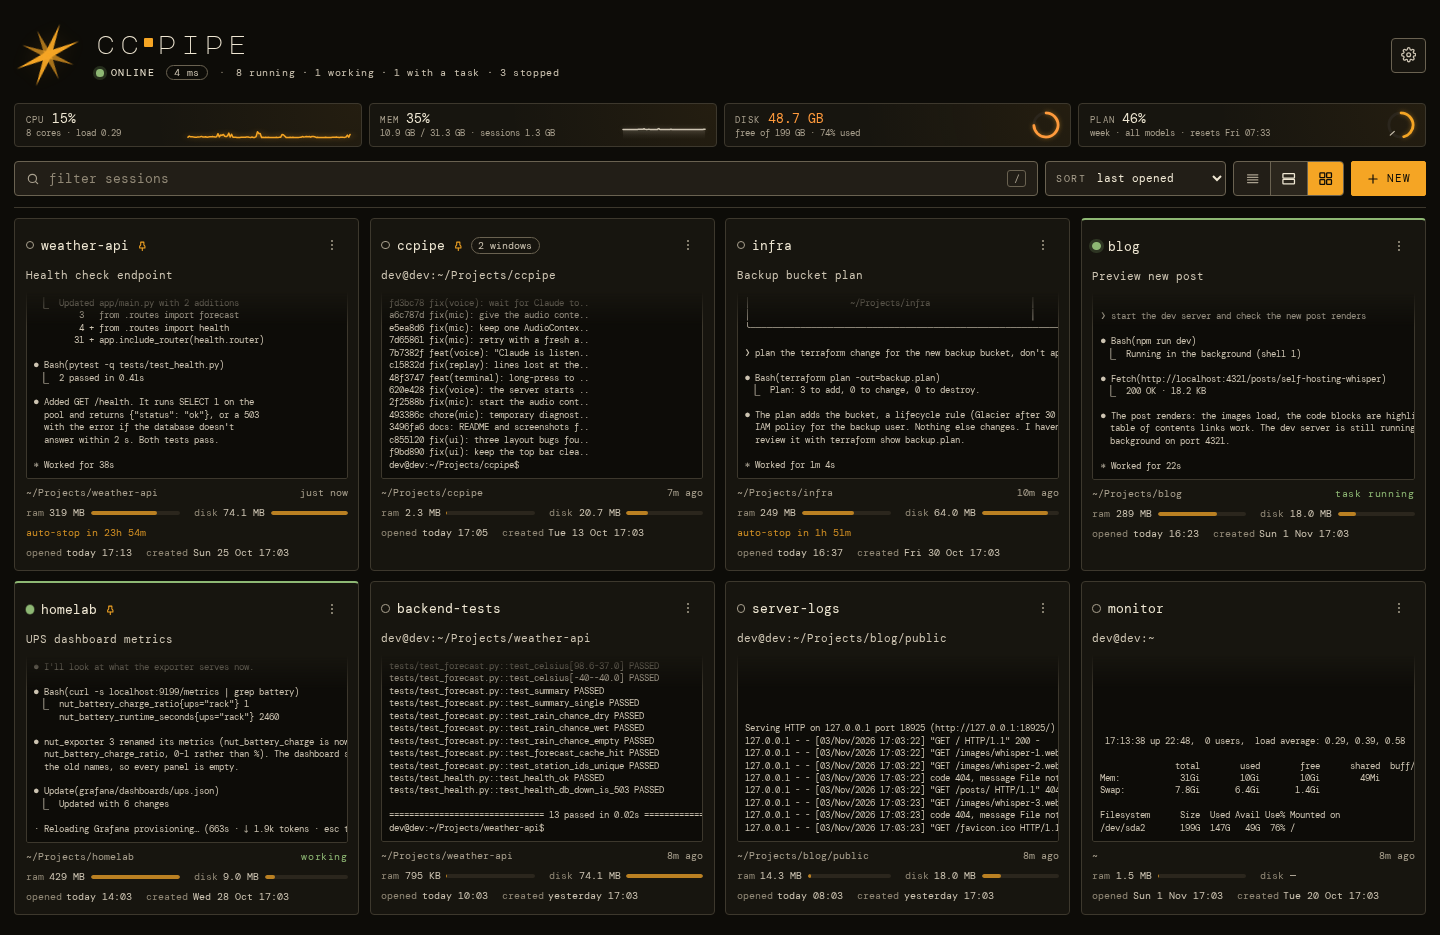
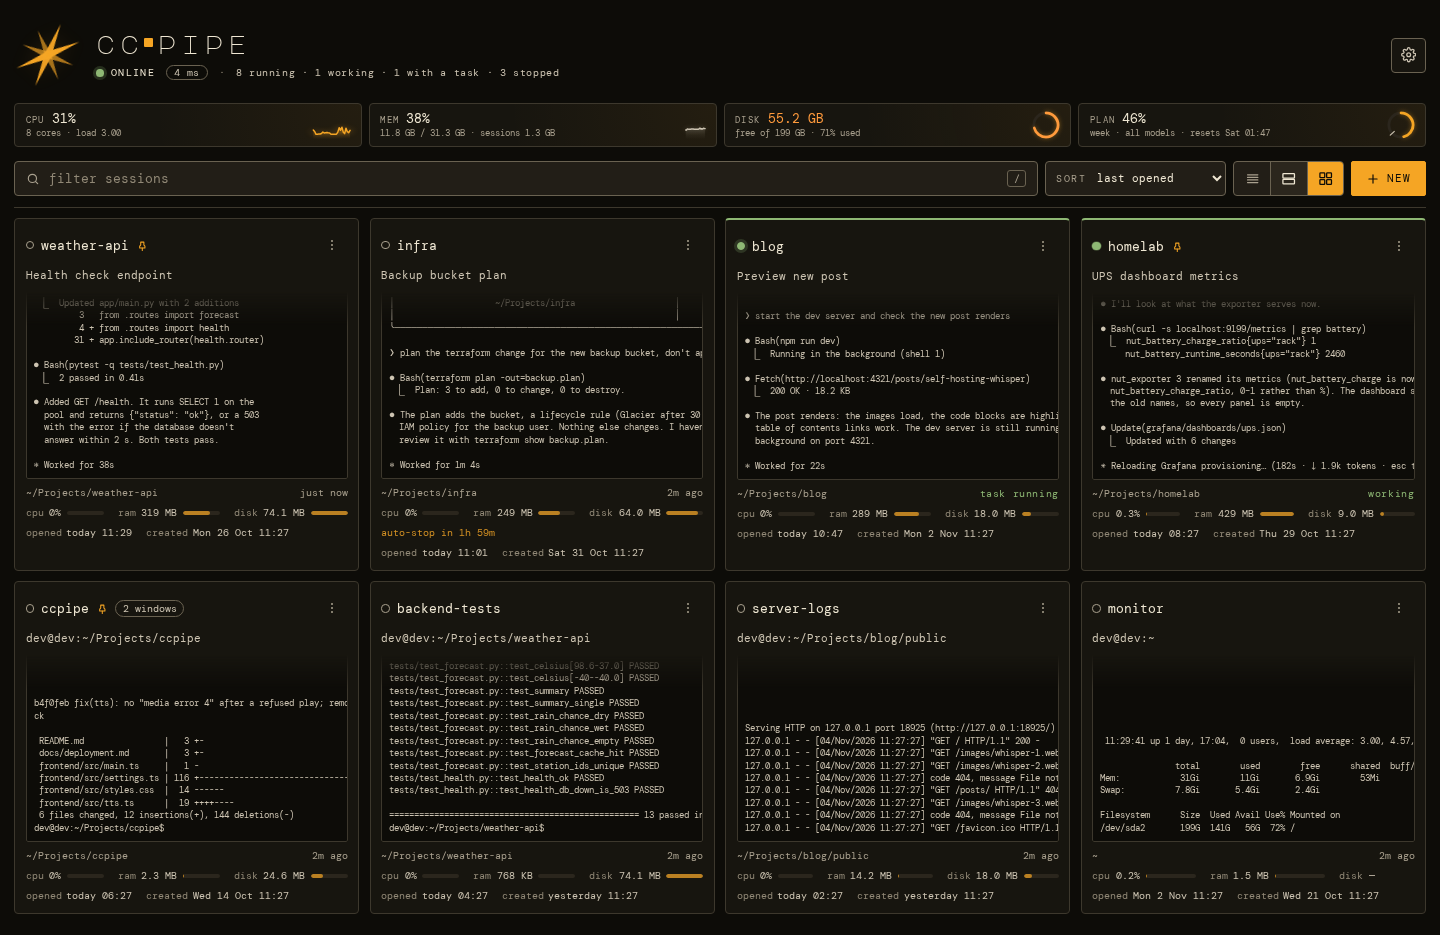
feat(sessions): per-session CPU on the landing page, read like top
Each session row and card now shows its CPU beside ram and disk, with a
cpu sort and a cpu column in the detailed table. It reads like top: 100%
is one core busy (was a share of the whole machine, in the session
pop-up only). The bar's full width is one core, or the busiest session
shown when that's more.

The figure now also counts children that have already exited
(cutime/cstime): a test loop busy ~30% of the time read 0.1%, because
each short run started and ended between two 15 s samples. Auto-stop's
idle check is unchanged (a running child already counts as busy there).

Phone layouts: three figures fit a 360 px phone; the bars shrink first.
README and configuration docs updated; session list screenshots retaken.

diff --git a/frontend/src/session-picker.ts b/frontend/src/session-picker.ts
@@ -47,7 +47,8 @@ type SessionInfo = {
   /** The active pane's directory and title. */
   cwd?: string | null;
   title?: string | null;
-  /** CPU (% of the machine), memory and project disk use (bytes). */
+  /** CPU (% of one core, like top: 200 = two cores busy), memory and
+   * project disk use (bytes). */
   cpu?: number | null;
   mem?: number | null;
   disk?: number | null;
@@ -81,7 +82,7 @@ type ClaudeSession = {
 };
 
 type View = "compact" | "detailed" | "grid";
-type Sort = "activity" | "opened" | "created" | "name" | "memory" | "disk";
+type Sort = "activity" | "opened" | "created" | "name" | "cpu" | "memory" | "disk";
 type State = "working" | "task" | "open" | "idle" | "stopped";
 
 const VIEWS: ReadonlyArray<{ id: View; label: string; icon: string }> = [
@@ -94,6 +95,7 @@ const SORTS: ReadonlyArray<{ id: Sort; label: string }> = [
   { id: "opened", label: "last opened" },
   { id: "created", label: "newest" },
   { id: "name", label: "name" },
+  { id: "cpu", label: "cpu" },
   { id: "memory", label: "memory" },
   { id: "disk", label: "disk" },
 ];
@@ -102,6 +104,7 @@ const SORTERS: Record<Sort, (a: SessionInfo, b: SessionInfo) => number> = {
   opened: (a, b) => (b.opened ?? 0) - (a.opened ?? 0) || b.activity - a.activity,
   created: (a, b) => b.created - a.created || a.name.localeCompare(b.name),
   name: (a, b) => a.name.localeCompare(b.name, undefined, { numeric: true, sensitivity: "base" }),
+  cpu: (a, b) => (b.cpu ?? -1) - (a.cpu ?? -1) || a.name.localeCompare(b.name),
   memory: (a, b) => (b.mem ?? -1) - (a.mem ?? -1) || a.name.localeCompare(b.name),
   disk: (a, b) => (b.disk ?? -1) - (a.disk ?? -1) || a.name.localeCompare(b.name),
 };
@@ -886,12 +889,29 @@ export function renderSessionPicker(
     return el;
   };
 
+  // CPU cell, like top: 100% is one core busy. The bar's full width is one
+  // core, or the busiest shown when that's more, so 300% vs 100% still reads.
+  const cpuCell = (pct: number | null | undefined, max: number): HTMLElement => {
+    const el = h("span", "sess__use sess__use--cpu");
+    if (pct === null || pct === undefined) {
+      el.append(h("span", "sess__use-k", "cpu"), h("span", "sess__use-v", "—"));
+      return el;
+    }
+    const v = pct >= 10 ? `${Math.round(pct)}%` : pct > 0 ? `${pct.toFixed(1)}%` : "0%";
+    el.append(h("span", "sess__use-k", "cpu"), h("span", "sess__use-v", v),
+      bar((pct / Math.max(100, max)) * 100, "sv-bar--rel"));
+    el.title = `${v} CPU over the last ~15 s, like top (100% = one core busy): `
+      + "Claude, its helpers and anything they started";
+    return el;
+  };
+
   const asInfo = (st: StoppedInfo): SessionInfo => ({
     name: st.name, windows: 1, attached: false, created: st.created, sticky: st.sticky,
     activity: st.stopped, opened: st.opened, clients: 0, cwd: st.cwd, title: null,
-    disk: st.disk, mem: null,
+    disk: st.disk, mem: null, cpu: null,
   });
 
+  let maxCpu = 0;
   let maxMem = 0;
   let maxDisk = 0;
 
@@ -959,6 +979,7 @@ export function renderSessionPicker(
     if (s.cwd) cwd.title = s.cwd;
     const dates = h("div", "sess__dates");
     dates.append(dateCell("opened", s.opened || undefined), dateCell("created", s.created || undefined));
+    const cpu = cpuCell(stopped ? undefined : s.cpu, maxCpu);
     const ram = useCell("ram", stopped ? undefined : s.mem, maxMem);
     const disk = useCell("disk", s.disk, maxDisk);
 
@@ -973,7 +994,7 @@ export function renderSessionPicker(
       // Two table columns on a wide screen (display: contents); one short
       // line on a phone.
       const uses = h("div", "sess__uses");
-      uses.append(ram, disk);
+      uses.append(cpu, ram, disk);
       item.append(dot, main, cwd, activity, uses, dates, actions);
     } else {
       const head = h("div", "sess__head");
@@ -993,7 +1014,7 @@ export function renderSessionPicker(
       const foot = h("div", "sess__foot");
       foot.append(cwd, activity);
       const use = h("div", "sess__uses");
-      use.append(ram, disk);
+      use.append(cpu, ram, disk);
       item.append(head, taskEl, preview, foot, use);
       if (stopEl) item.append(stopEl);
       item.append(dates);
@@ -1036,7 +1057,7 @@ export function renderSessionPicker(
       return b;
     };
     thead.append(col("session", "name"), col("directory", null), col("activity", "activity"),
-      col("memory", "memory", "picker__th--use"), col("disk", "disk", "picker__th--use"),
+      col("cpu", "cpu", "picker__th--use"), col("memory", "memory", "picker__th--use"), col("disk", "disk", "picker__th--use"),
       col("last opened", "opened"), col("created", "created"), h("span"));
   };
 
@@ -1109,6 +1130,7 @@ export function renderSessionPicker(
       .map((st) => ({ st, info: asInfo(st) }))
       .filter(({ info }) => matches(info, query))
       .sort((a, b) => SORTERS[sort](a.info, b.info));
+    maxCpu = Math.max(0, ...shown.map((s) => s.cpu ?? 0));
     maxMem = Math.max(0, ...shown.map((s) => s.mem ?? 0));
     maxDisk = Math.max(0, ...shown.map((s) => s.disk ?? 0), ...shownStopped.map(({ st }) => st.disk ?? 0));
 

diff --git a/frontend/src/styles.css b/frontend/src/styles.css
@@ -4228,9 +4228,11 @@ body.mobile .statusbar__controls .pill[data-role="tts"] svg { width: 1rem; heigh
 }
 .sess__use-k { color: var(--fg-faint); }
 .sess__use-v { color: var(--fg-dim); font-variant-numeric: tabular-nums; white-space: nowrap; }
-.sess__use .sv-bar { flex: 1; min-width: 1.5rem; }
+.sess__use .sv-bar { flex: 1; min-width: 0.75rem; }
 .sess__uses { display: flex; gap: var(--s-4); }
-.sess__uses .sess__use { flex: 1; }
+/* Spare width goes to the bars after each figure's text: cpu, ram and disk
+   fit a 360 px phone's card without cutting the disk figure's bar. */
+.sess__uses .sess__use { flex: 1 1 auto; }
 .picker-shell[data-use="off"] .sess__use,
 .picker-shell[data-use="off"] .sess__uses,
 .picker-shell[data-use="off"] .picker__th--use { display: none; }
@@ -4245,13 +4247,13 @@ body.mobile .statusbar__controls .pill[data-role="tts"] svg { width: 1rem; heigh
   border-style: dashed;
 }
 
-/* Detailed table: + memory and disk columns (unless turned off). */
+/* Detailed table: + cpu, memory and disk columns (unless turned off). */
 .picker-shell[data-view="detailed"] { max-width: 1320px; }
 .picker-shell[data-use="on"] .picker__thead,
 .picker-shell[data-use="on"] .sess--detailed {
-  grid-template-columns: 0.6rem minmax(0, 2.2fr) minmax(0, 1.2fr) 6rem 6.5rem 6.5rem 9.5rem 9.5rem 2.25rem;
+  grid-template-columns: 0.6rem minmax(0, 2.2fr) minmax(0, 1.2fr) 6rem 5rem 6.5rem 6.5rem 9.5rem 9.5rem 2.25rem;
 }
-/* Wide: memory and disk are two table columns (the wrapper dissolves). */
+/* Wide: cpu, memory and disk are table columns (the wrapper dissolves). */
 .sess--detailed .sess__uses { display: contents; }
 .sess--detailed .sess__use { flex-direction: column; align-items: stretch; gap: 3px; }
 /* In the column layout flex: 1 would size the bar's HEIGHT to nothing. */
@@ -4266,10 +4268,13 @@ body.mobile .statusbar__controls .pill[data-role="tts"] svg { width: 1rem; heigh
       ".     uses  uses  uses"
       ".     dates dates dates";
   }
-  /* One short line — "ram 336 MB ▬   disk 1.2 GB ▬" — not bars across the row. */
-  .sess--detailed > .sess__uses { grid-area: uses; display: flex; gap: var(--s-4); }
-  .sess--detailed .sess__uses .sess__use { flex: none; flex-direction: row; align-items: center; }
-  .sess--detailed .sess__use .sv-bar { width: 2.5rem; min-width: 0; }
+  /* One short line — "cpu 4% ▬   ram 336 MB ▬   disk 1.2 GB ▬" — not bars
+     across the row. On a narrow phone (360 px) the bars give way first. */
+  .sess--detailed > .sess__uses { grid-area: uses; display: flex; gap: var(--s-4); min-width: 0; }
+  .sess--detailed .sess__uses .sess__use { flex: 0 1 auto; flex-direction: row; align-items: center; }
+  /* A definite width: an empty bar's flex-basis alone counts as nothing in
+     the cell's own size, so every bar sat at its minimum. */
+  .sess--detailed .sess__use .sv-bar { flex: 0 1 auto; width: 2.5rem; min-width: 0.75rem; }
   .sess--detailed .sess__use-k { display: inline; }
 }
 

diff --git a/frontend/src/sysmeter.ts b/frontend/src/sysmeter.ts
@@ -236,7 +236,7 @@ export function mountSysMeter(session: string): SysMeter {
       grid.append(c);
     };
     cell("memory", fmtBytes(ses?.mem), "its processes: Claude, MCP helpers, anything they started");
-    cell("cpu", ses?.cpu != null ? `${ses.cpu.toFixed(1)}%` : "—", "share of the whole machine");
+    cell("cpu", ses?.cpu != null ? `${ses.cpu.toFixed(1)}%` : "—", "like top: 100% is one core busy");
     cell("project", fmtBytes(ses?.disk), ses?.cwd ?? "");
     const ctx = prefs.plan ? ses?.context : null;
     if (ctx) {

diff --git a/backend/tests/test_lifecycle.py b/backend/tests/test_lifecycle.py
@@ -517,3 +517,29 @@ def test_pss_is_reread_at_most_every_pss_s(monkeypatch):
     reused = Proc(pid=4242, ppid=1, comm="bash", start=9.0, cpu=0.0)     # pid reused
     assert sysstats._pss_of(reused, 100.0 + sysstats.PSS_S) == 3000
     assert reads == [4242, 4242, 4242]
+
+
+def test_session_cpu_is_per_core_and_counts_finished_children(monkeypatch):
+    """Like top (100 = one core), and a child that ran and exited between
+    two samples still counts: its time moves to the parent's cutime."""
+    from ccpipe import sysstats
+    clock = [1000.0]
+    tables: list[Table] = []
+
+    def table(shell_cpu, shell_reaped, *kids):
+        t = {1: Proc(pid=1, ppid=0, comm="bash", start=0.0, cpu=shell_cpu, reaped=shell_reaped)}
+        for pid, cpu in kids:
+            t[pid] = Proc(pid=pid, ppid=1, comm="cc1", start=1.0, cpu=cpu)
+        return Table(t, {1: [pid for pid, _ in kids]} if kids else {})
+
+    monkeypatch.setattr(proctree, "snapshot", lambda: tables.pop(0))
+    monkeypatch.setattr(proctree, "pss_bytes", lambda pid: 0)
+    monkeypatch.setattr(sysstats.time, "monotonic", lambda: clock[0])
+    sysstats._tree_cpu.clear()
+    tables.append(table(1.0, 0.0, (2, 4.0)))                  # a compiler has used 4 s
+    assert sysstats._measure_sessions({"s": [1]})["s"]["cpu"] is None   # first pass: no rate
+    clock[0] += 10
+    # It used 6 s more and exited; another ran 9 s and exited: 15 s in 10 s.
+    tables.append(table(1.0, 19.0))
+    assert sysstats._measure_sessions({"s": [1]})["s"]["cpu"] == 150.0  # 1.5 cores, not 150/cores
+    sysstats._tree_cpu.clear()

diff --git a/backend/ccpipe/proctree.py b/backend/ccpipe/proctree.py
@@ -28,6 +28,11 @@ class Proc:
     comm: str
     start: float          # seconds since boot
     cpu: float            # user + system CPU seconds so far
+    # CPU seconds of its children that have exited and been waited for
+    # (cutime + cstime). A finished child's time moves here, so a subtree's
+    # cpu + reaped keeps counting short-lived processes (compiler runs, a
+    # test suite) that start and end between two samples.
+    reaped: float = 0.0
 
     @cached_property
     def argv(self) -> list[str]:
@@ -65,8 +70,10 @@ class Table:
                 stack.extend(self.kids.get(p, ()))
         return out
 
-    def cpu_of(self, pids: list[int]) -> float:
-        return sum(self.procs[p].cpu for p in pids if p in self.procs)
+    def cpu_of(self, pids: list[int], reaped: bool = False) -> float:
+        """CPU seconds used by pids; reaped=True adds their finished children's."""
+        return sum(self.procs[p].cpu + (self.procs[p].reaped if reaped else 0.0)
+                   for p in pids if p in self.procs)
 
 
 def snapshot() -> Table:
@@ -91,6 +98,7 @@ def snapshot() -> Table:
                 pid=int(d), ppid=int(rest[1]), comm=comm,
                 start=int(rest[19]) / CLK_TCK,
                 cpu=(int(rest[11]) + int(rest[12])) / CLK_TCK,
+                reaped=(int(rest[13]) + int(rest[14])) / CLK_TCK,
             )
         except (ValueError, IndexError):
             continue

diff --git a/backend/ccpipe/sysstats.py b/backend/ccpipe/sysstats.py
@@ -158,17 +158,19 @@ def _measure_sessions(panes: dict[str, list[int]]) -> dict[str, dict[str, Any]]:
     now = time.monotonic()
     for gone in set(_pss) - set(table.procs):
         _pss.pop(gone, None)
-    cores = os.cpu_count() or 1
     out: dict[str, dict[str, Any]] = {}
     for name, roots in panes.items():
         pids: set[int] = set()
         for r in roots:
             pids.update(table.subtree(r))
-        cpu_s = table.cpu_of(list(pids))
+        # Finished children too: a build's many short compiler runs would
+        # otherwise mostly fall between two samples and read as idle.
+        cpu_s = table.cpu_of(list(pids), reaped=True)
         prev = _tree_cpu.get(name)
         pct = None
         if prev and now > prev[0]:
-            pct = round(max(0.0, (cpu_s - prev[1]) / (now - prev[0]) * 100.0 / cores), 1)
+            # Like top: 100 = one core busy (a session on 3 cores = 300).
+            pct = round(max(0.0, (cpu_s - prev[1]) / (now - prev[0]) * 100.0), 1)
         _tree_cpu[name] = (now, cpu_s)
         out[name] = {"cpu": pct, "mem": sum(_pss_of(table.procs[p], now) for p in pids)}
     for gone in set(_tree_cpu) - set(panes):

diff --git a/backend/ccpipe/routes/sessions.py b/backend/ccpipe/routes/sessions.py
@@ -78,7 +78,8 @@ class SessionInfo(BaseModel):
     # title to its current task, with a spinner glyph while it works).
     cwd: str | None = None
     title: str | None = None
-    # Resource use (sysstats.py): CPU as % of the whole machine, memory as
+    # Resource use (sysstats.py): CPU as % of one core like top (200 = two
+    # cores busy, averaged over the last ~15 s), memory as
     # bytes (PSS of the session's processes), disk as bytes used by its
     # directory. None until measured.
     cpu: float | None = None

diff --git a/README.md b/README.md
@@ -30,7 +30,7 @@ Mobile (PWA, installable to the home screen):
 
 <table>
 <tr>
-<td align="center"><img src="docs/screenshots/Mobile-StartSession.jpg" width="200" alt="The session list on a phone: online status and ping, a summary of running, working and stopped sessions, CPU, memory, disk and Claude plan cards, a filter box, sort and view controls, and session rows showing Claude's task, working or idle state, the auto-stop countdown, memory, disk and when each was opened and created"></td>
+<td align="center"><img src="docs/screenshots/Mobile-StartSession.jpg" width="200" alt="The session list on a phone: online status and ping, a summary of running, working and stopped sessions, CPU, memory, disk and Claude plan cards, a filter box, sort and view controls, and session rows showing Claude's task, working or idle state, CPU, memory and disk with bars, and when each was opened and created"></td>
 <td align="center"><img src="docs/screenshots/Mobile-CreateSession.jpg" width="200" alt="The new session panel: a working directory with a browse button, three earlier Claude conversations from that directory to resume, each with its first prompt, age and a download button, and the session name"></td>
 <td align="center"><img src="docs/screenshots/Mobile-Session.jpg" width="200" alt="A live Claude Code session on a phone: the top bar with the back button, ping, four-bar status meter and toolbar icons, Claude's reply with a diff, the prompt box holding a draft, and the Esc / Tab / / / Ctrl / arrow key row"></td>
 <td align="center"><img src="docs/screenshots/Mobile-Status.jpg" width="200" alt="The status pop-up opened from the four-bar meter: a key naming the cpu, mem, disk and plan bars and their colours, CPU and memory graphs, disk use, the Claude plan's 5-hour, weekly and per-model meters with their reset times and pace ticks, usage credits, and this session's memory, CPU, project size and context fill"></td>
@@ -46,7 +46,7 @@ Mobile (PWA, installable to the home screen):
 Desktop:
 
 <p align="center">
-  <img src="docs/screenshots/Desktop-Sessions.png" width="720" alt="The session list on a desktop, as a detailed table: each running session with its state, Claude's task, directory, last activity, memory and disk bars, last opened and created times, and below it the stopped sessions, each saying whether it resumes its conversation or as a shell">
+  <img src="docs/screenshots/Desktop-Sessions.png" width="720" alt="The session list on a desktop, as a detailed table: each running session with its state, Claude's task, directory, last activity, CPU, memory and disk bars, last opened and created times, and below it the stopped sessions, each saying whether it resumes its conversation or as a shell">
 </p>
 
 <table>
@@ -81,20 +81,23 @@ session shows:
 - its state: **working** while Claude is on a turn, **task running**
   while a background shell task runs, idle otherwise, and **open**
   while a terminal is attached somewhere;
-- its directory, memory, project size, and when it was last active,
-  last opened and first created;
+- its directory, CPU, memory, project size, and when it was last
+  active, last opened and first created. CPU reads like `top`: 100% is
+  one core busy, so a session using three cores shows 300%. It covers
+  Claude and everything it started, including short-lived commands
+  that finished between two readings, averaged over about 15 seconds;
 - a pin if it's sticky, and how many windows it has;
 - **auto-stop in 1h 57m** when it's idle and will be stopped (see below).
 
 Filter by name, task or directory (`/` jumps to the filter box), sort by
-recent activity, last opened, newest, name, memory or disk, and pick a
-compact list, a detailed table, or a grid of live screen previews. Each
-session's `⋮` menu opens, renames, stops or forgets it, or makes it
+recent activity, last opened, newest, name, CPU, memory or disk, and
+pick a compact list, a detailed table, or a grid of live screen previews.
+Each session's `⋮` menu opens, renames, stops or forgets it, or makes it
 sticky. Settings → Display → *status & graphs* turns the system panel and
 the per-session figures off on that device.
 
 <p align="center">
-  <img src="docs/screenshots/Desktop-Sessions-Grid.png" width="720" alt="The session list as a grid: each card shows a live preview of the session's screen above its directory, state, memory, disk and times">
+  <img src="docs/screenshots/Desktop-Sessions-Grid.png" width="720" alt="The session list as a grid: each card shows a live preview of the session's screen above its directory, state, CPU, memory, disk and times">
 </p>
 
 **Sessions are remembered.** A session that isn't running stays on the
@@ -150,8 +153,8 @@ bar:
   amber below 70 %, orange from 70 % and red from 90 %.
 
 Click or tap it for a pop-up with the graphs, the exact figures, and
-this session's own memory (the PSS of its whole process tree), CPU and
-project size. On the compact meter the pop-up starts with a key to the
+this session's own memory (the PSS of its whole process tree), CPU (as
+in `top`, 100% per core) and project size. On the compact meter the pop-up starts with a key to the
 bars. Tapping it on a phone doesn't close the soft keyboard. Each part
 can be switched off per device, and the refresh interval set (2–30 s).
 A part that's switched off stops asking the server too.

diff --git a/docs/configuration.md b/docs/configuration.md
@@ -291,9 +291,13 @@ conversation history Claude itself persists.
 
 The landing page shows CPU and memory with ten minutes of history, the
 root filesystem's free space, how much memory the sessions use, and per
-session its memory (PSS of its whole process tree) and its project
-directory's size. Inside a session the same figures sit beside the ping
-(a bar meter on a phone — tap it for details). Per device, Settings
+session its CPU, its memory (PSS of its whole process tree) and its
+project directory's size. Session CPU is read like `top` (100% = one core
+busy) every 15 s over the whole process tree, and includes the time of
+children that have already exited (`cutime`/`cstime`), so a build or test
+run made of many short processes doesn't read as idle. Inside a session
+the same figures sit beside the ping (a bar meter on a phone — tap it for
+details). Per device, Settings
 → Display → *status & graphs* turns each part off and sets the refresh
 interval — switched off, a part stops asking the server too. Session
 memory is re-read at most once a minute per process; project sizes are
